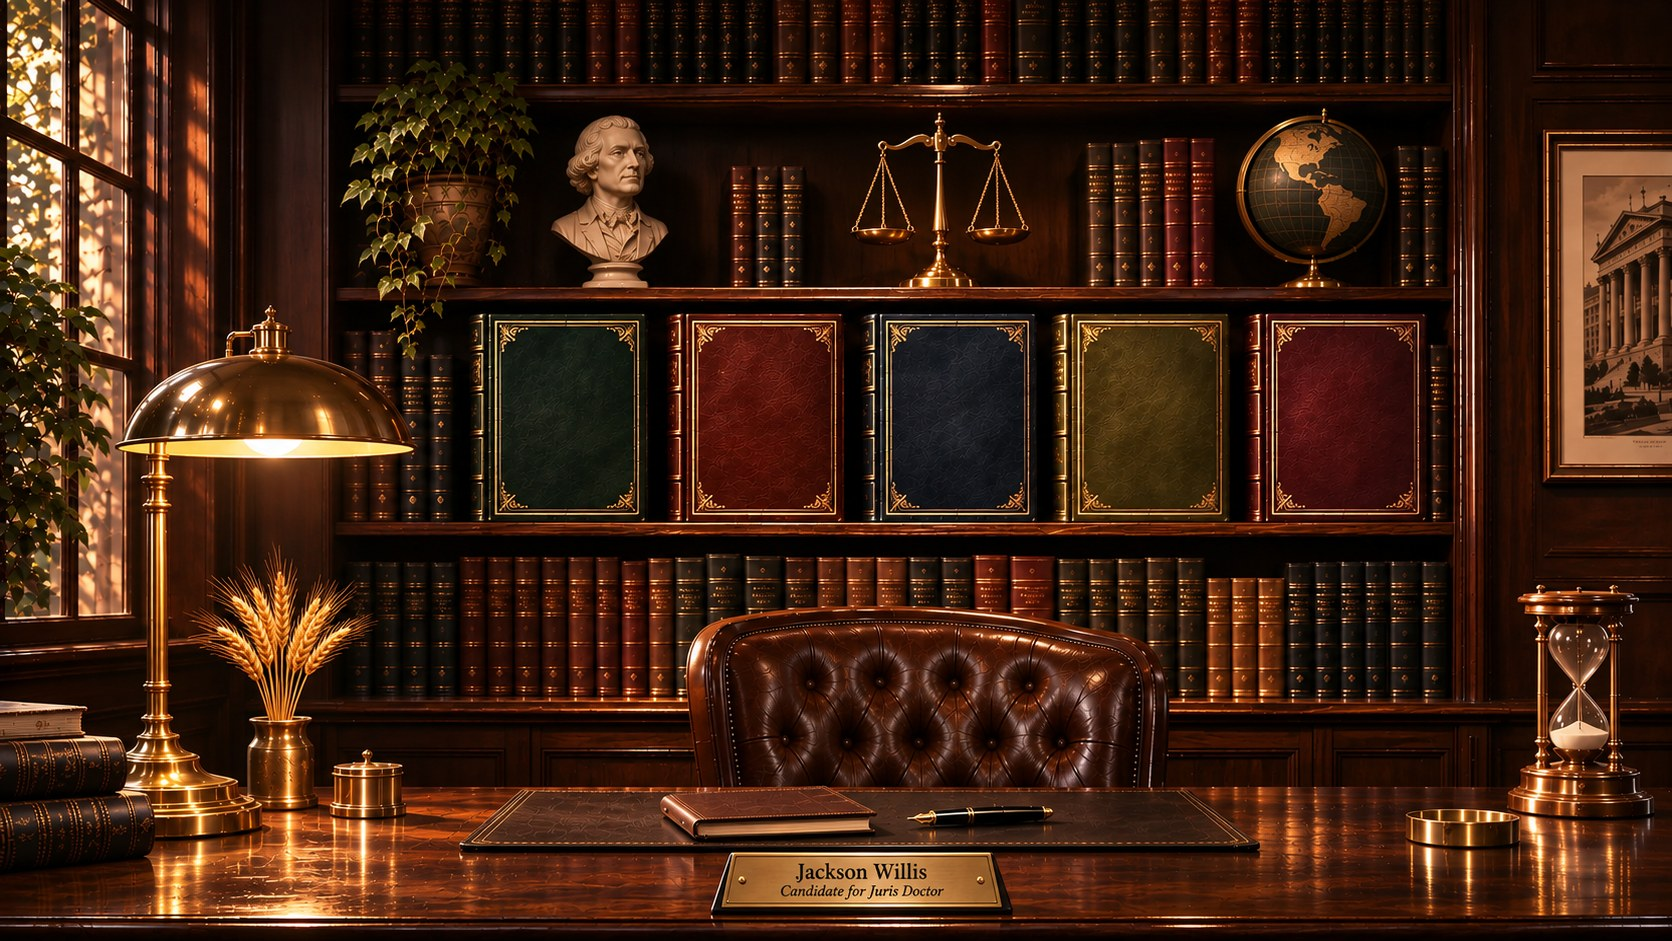
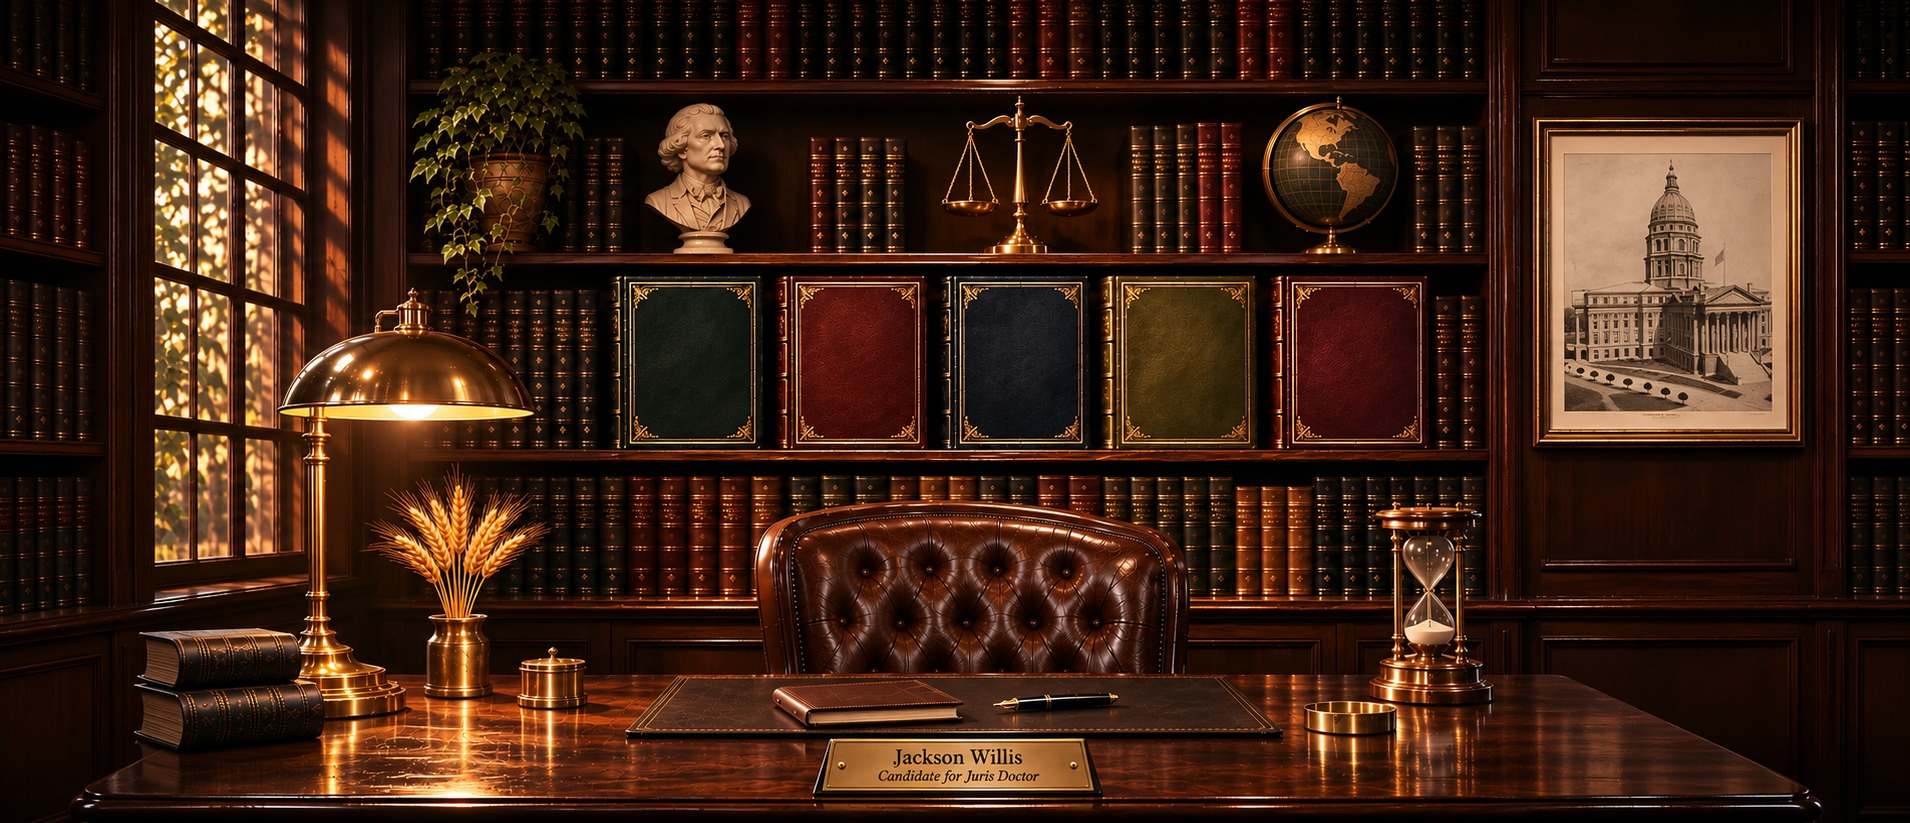
Use widened library image and re-measure landscape hotspots
Replaces library.jpg with the 21:9 library (1910x823). Book covers,
globe, Jefferson bust, desk plate, hero position and desk zoom origin
are re-measured to the new image.

Claude-Session: https://claude.ai/code/session_019BtauKSsxUBCS23VngH39y

diff --git a/index.html b/index.html
@@ -930,13 +930,13 @@ a.nv { text-decoration: none; display: inline-flex; align-items: center; }
      Settings you may want to edit
      ================================================================== */
   var PLATES = {
-    l: { img: 'library.jpg', w: 1672, h: 941, rect: {
-      about:      [474, 313, 173, 209],
-      experience: [671, 313, 173, 209],
-      writing:    [866, 313, 169, 209],
-      research:   [1055, 313, 174, 209],
-      contact:    [1250, 313, 172, 209]
-    }, globe: [1234, 105, 156, 184], bust: [548, 112, 126, 178], desk: [711, 850, 302, 70] },
+    l: { img: 'library.jpg', w: 1910, h: 823, rect: {
+      about:      [617, 277, 145, 170],
+      experience: [781, 277, 145, 170],
+      writing:    [945, 277, 145, 170],
+      research:   [1109, 277, 145, 170],
+      contact:    [1273, 277, 145, 170]
+    }, globe: [1262, 98, 138, 160], bust: [645, 100, 108, 156], desk: [815, 738, 286, 58] },
     p: { img: 'library-m.jpg', w: 941, h: 1672, rect: {
       about:      [105, 539, 146, 241],
       experience: [265, 539, 144, 241],
@@ -945,7 +945,7 @@ a.nv { text-decoration: none; display: inline-flex; align-items: center; }
       contact:    [746, 539, 146, 241]
     }, globe: [718, 320, 162, 190], bust: [250, 332, 126, 178], desk: [281, 1348, 385, 80] }
   };
-  var IW = 1672, IH = 941;
+  var IW = 1910, IH = 823;
   // Colors of the board edges around the pages, matched to each cover.
   var THEMES = {
     about: '#16301a', experience: '#5e1a0e', writing: '#17243a',
@@ -1103,9 +1103,9 @@ a.nv { text-decoration: none; display: inline-flex; align-items: center; }
       var left = Math.max(ox + 116 * s, W * 0.04);
       hero.classList.remove('compact');
       hero.style.left = Math.round(left) + 'px'; hero.style.right = '';
-      hero.style.top = Math.round(Math.max(oy + 538 * s, 0)) + 'px';
+      hero.style.top = Math.round(Math.max(oy + 490 * s, 0)) + 'px';
       fitHero(Math.max(20, 52 * s), (ox + 680 * s) - left - 16);
-      org = [840 * s, 860 * s];
+      org = [955 * s, 760 * s];
     } else {
       s = W / 860;
       if (IH * s > H) s = H / IH;

diff --git a/src/app.js b/src/app.js
@@ -20,13 +20,13 @@
      Settings you may want to edit
      ================================================================== */
   var PLATES = {
-    l: { img: 'library.jpg', w: 1672, h: 941, rect: {
-      about:      [474, 313, 173, 209],
-      experience: [671, 313, 173, 209],
-      writing:    [866, 313, 169, 209],
-      research:   [1055, 313, 174, 209],
-      contact:    [1250, 313, 172, 209]
-    }, globe: [1234, 105, 156, 184], bust: [548, 112, 126, 178], desk: [711, 850, 302, 70] },
+    l: { img: 'library.jpg', w: 1910, h: 823, rect: {
+      about:      [617, 277, 145, 170],
+      experience: [781, 277, 145, 170],
+      writing:    [945, 277, 145, 170],
+      research:   [1109, 277, 145, 170],
+      contact:    [1273, 277, 145, 170]
+    }, globe: [1262, 98, 138, 160], bust: [645, 100, 108, 156], desk: [815, 738, 286, 58] },
     p: { img: 'library-m.jpg', w: 941, h: 1672, rect: {
       about:      [105, 539, 146, 241],
       experience: [265, 539, 144, 241],
@@ -35,7 +35,7 @@
       contact:    [746, 539, 146, 241]
     }, globe: [718, 320, 162, 190], bust: [250, 332, 126, 178], desk: [281, 1348, 385, 80] }
   };
-  var IW = 1672, IH = 941;
+  var IW = 1910, IH = 823;
   // Colors of the board edges around the pages, matched to each cover.
   var THEMES = {
     about: '#16301a', experience: '#5e1a0e', writing: '#17243a',
@@ -193,9 +193,9 @@
       var left = Math.max(ox + 116 * s, W * 0.04);
       hero.classList.remove('compact');
       hero.style.left = Math.round(left) + 'px'; hero.style.right = '';
-      hero.style.top = Math.round(Math.max(oy + 538 * s, 0)) + 'px';
+      hero.style.top = Math.round(Math.max(oy + 490 * s, 0)) + 'px';
       fitHero(Math.max(20, 52 * s), (ox + 680 * s) - left - 16);
-      org = [840 * s, 860 * s];
+      org = [955 * s, 760 * s];
     } else {
       s = W / 860;
       if (IH * s > H) s = H / IH;
